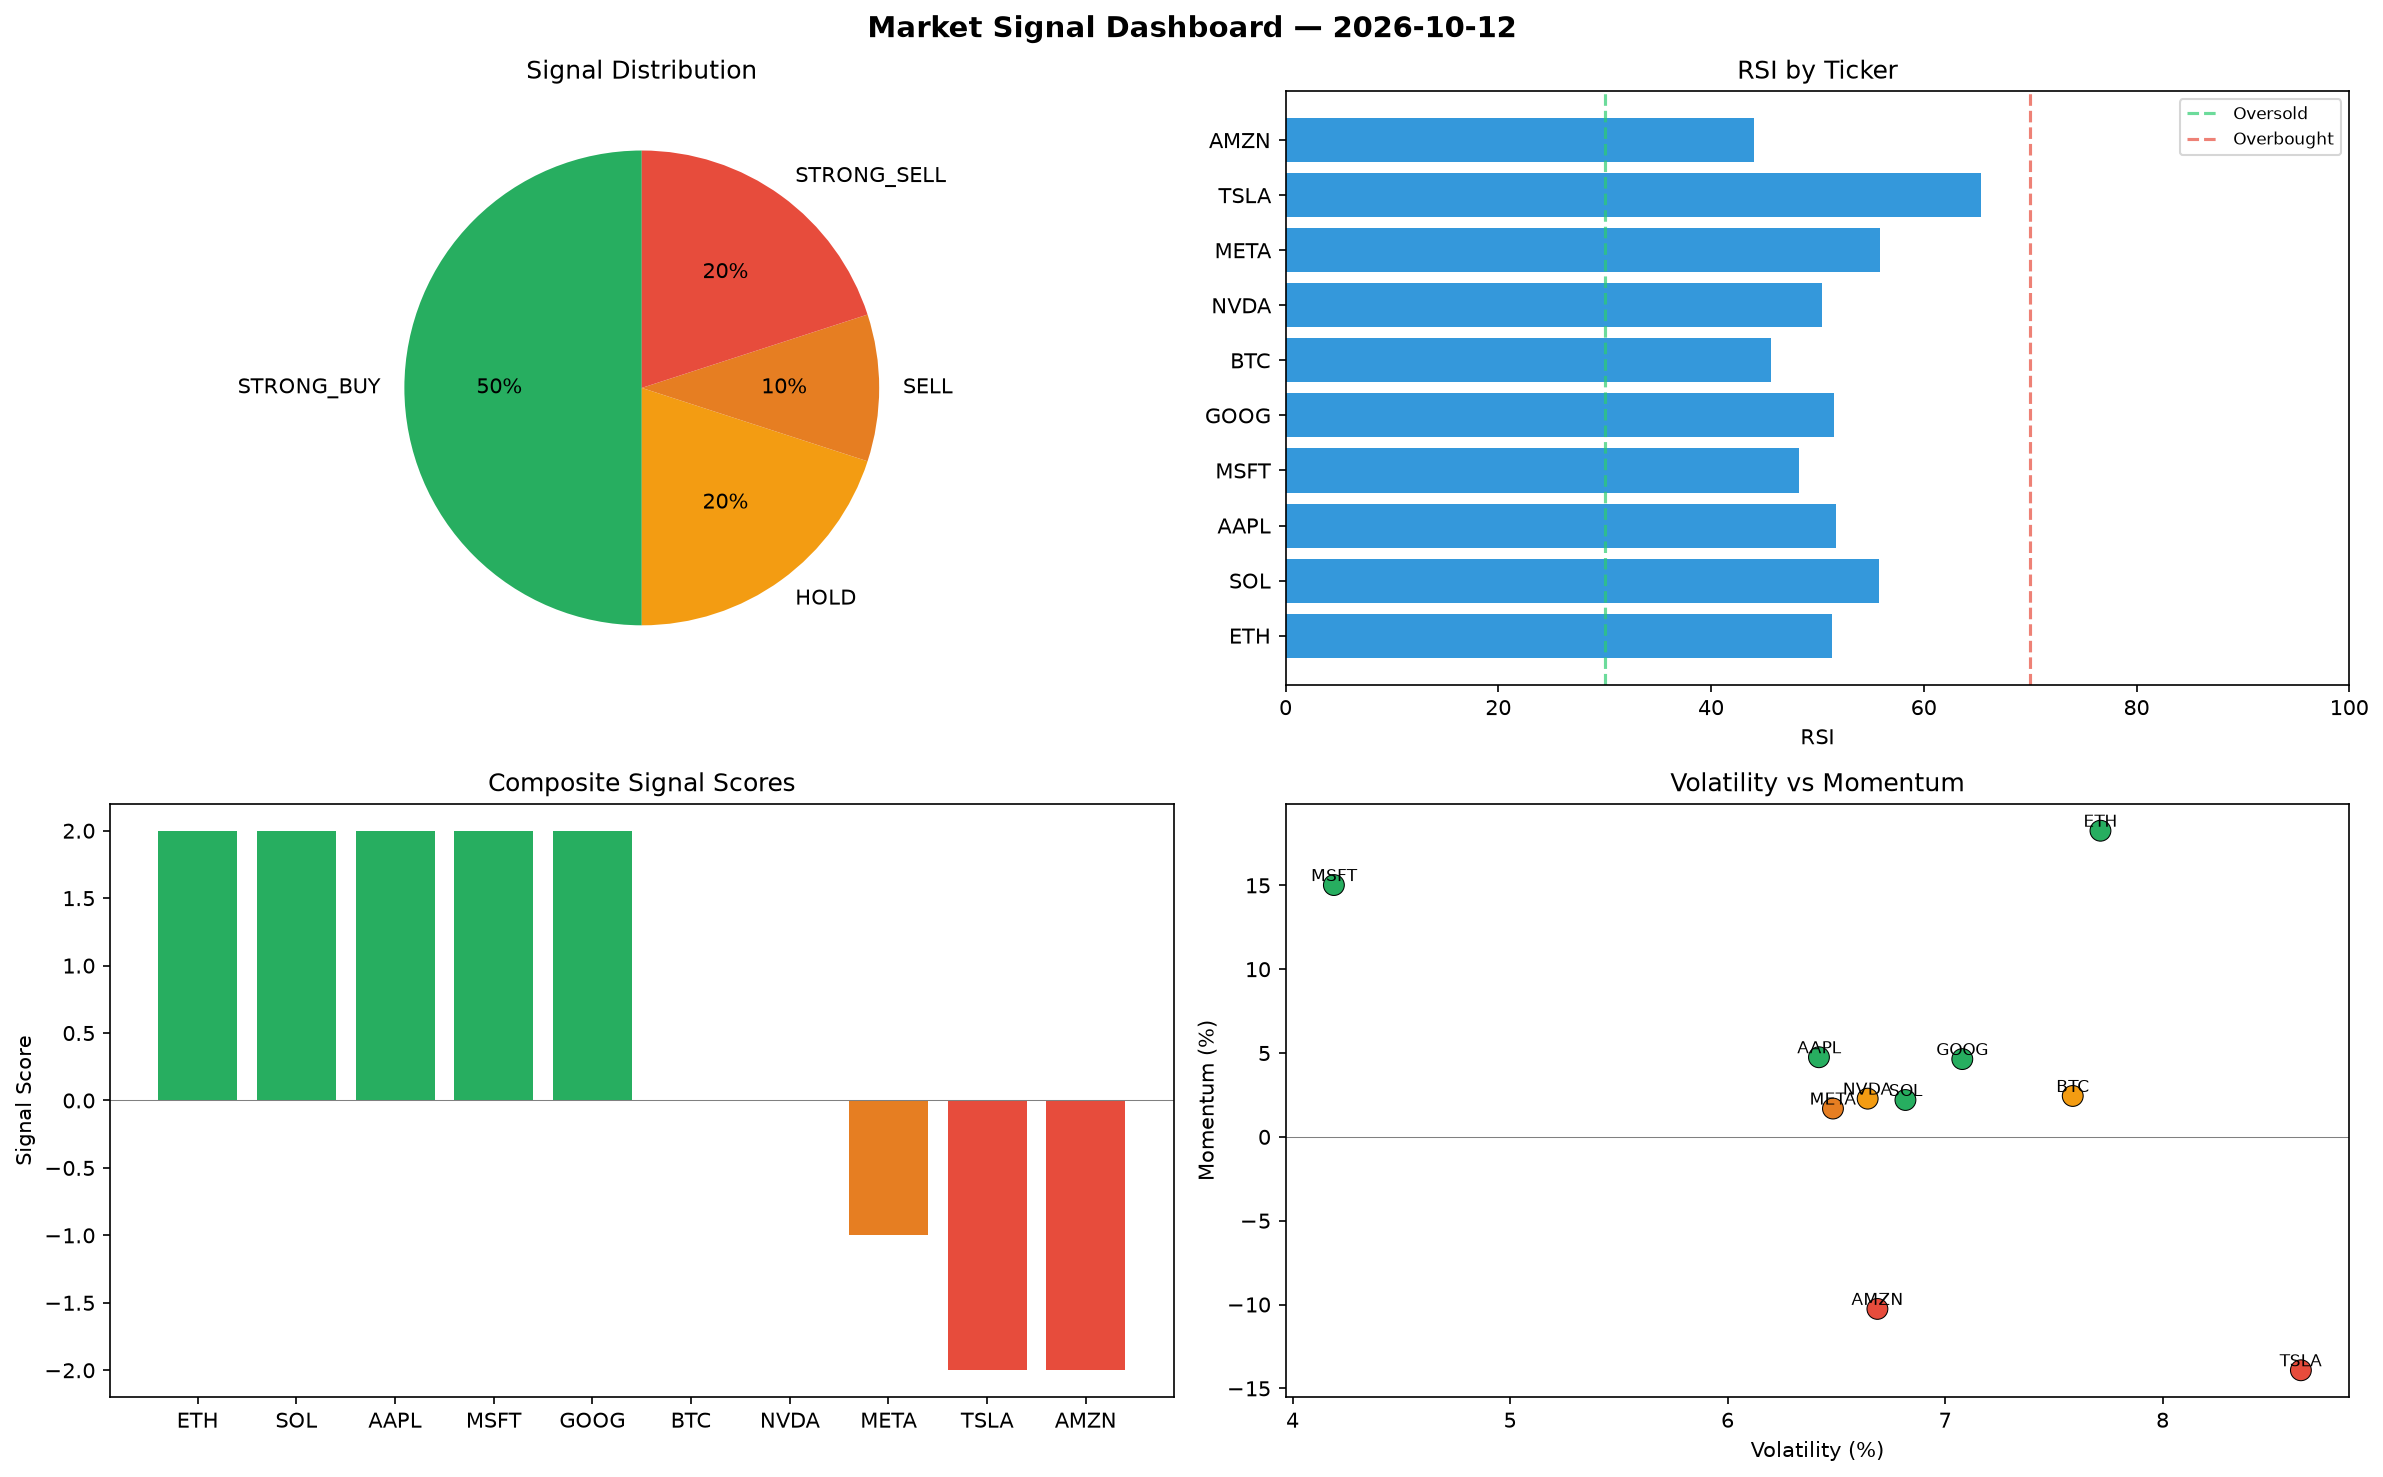
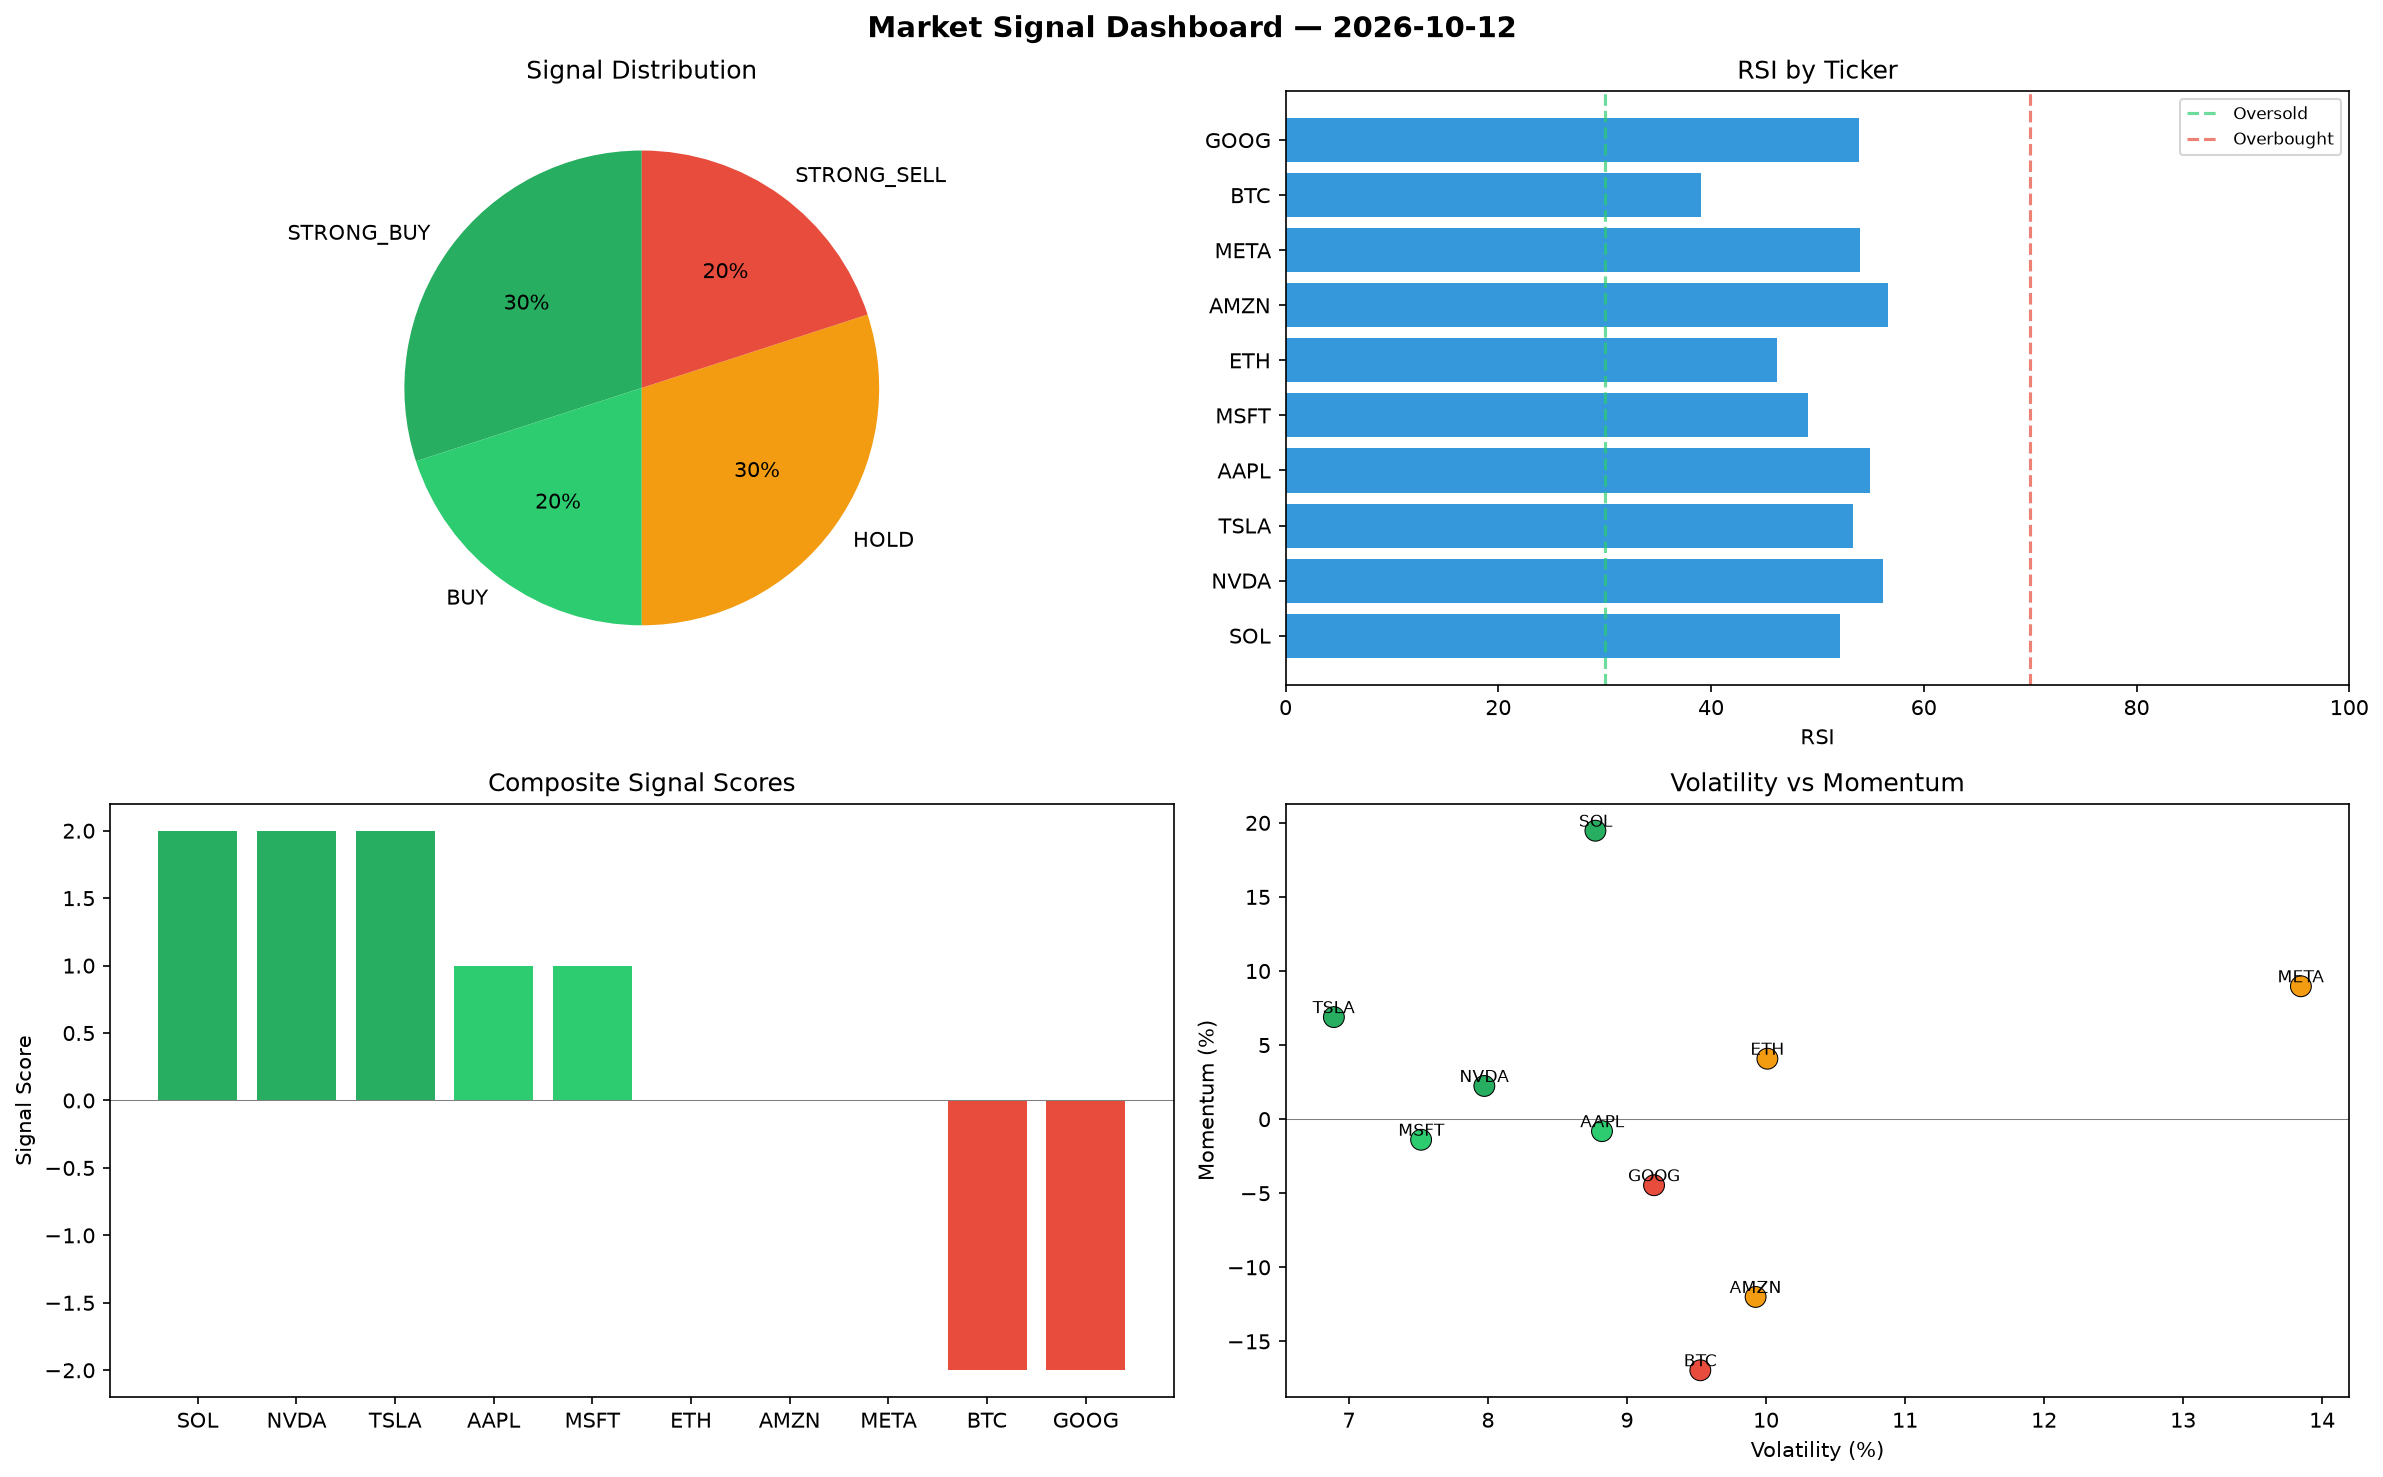
automated-bots: market signals 2026-10-12T18:05

diff --git a/logs/2026-10-12.md b/logs/2026-10-12.md
@@ -1,6 +1,6 @@
 # Market Signal Report — 2026-10-12
 
-**Run ID:** `3f71cfa7f8` | **Buy:** 5 | **Sell:** 3 | **Hold:** 2
+**Run ID:** `a02ee3ff59` | **Buy:** 5 | **Sell:** 2 | **Hold:** 3
 
 ![Dashboard](2026-10-12_dashboard.png)
 
@@ -8,28 +8,28 @@
 
 | Ticker | Price | Signal | Score | RSI | Momentum | Confidence |
 |--------|-------|--------|-------|-----|----------|------------|
-| ETH | $1604.06 | **STRONG_BUY** | 2 | 51.37 | 0.1826 | 0.5 |
-| SOL | $3126.44 | **STRONG_BUY** | 2 | 55.81 | 0.022 | 0.5 |
-| AAPL | $3765.13 | **STRONG_BUY** | 2 | 51.75 | 0.0475 | 0.5 |
-| MSFT | $3255.51 | **STRONG_BUY** | 2 | 48.29 | 0.1502 | 0.5 |
-| GOOG | $2394.95 | **STRONG_BUY** | 2 | 51.6 | 0.0464 | 0.5 |
-| BTC | $2005.3 | **HOLD** | 0 | 45.68 | 0.0244 | 0.0 |
-| NVDA | $1710.75 | **HOLD** | 0 | 50.47 | 0.0228 | 0.0 |
-| META | $1519.98 | **SELL** | -1 | 55.9 | 0.0169 | 0.25 |
-| TSLA | $1013.41 | **STRONG_SELL** | -2 | 65.38 | -0.1392 | 0.5 |
-| AMZN | $411.36 | **STRONG_SELL** | -2 | 44.05 | -0.1026 | 0.5 |
+| SOL | $4723.03 | **STRONG_BUY** | 2 | 52.09 | 0.1947 | 0.5 |
+| NVDA | $2186.26 | **STRONG_BUY** | 2 | 56.18 | 0.0224 | 0.5 |
+| TSLA | $2059.38 | **STRONG_BUY** | 2 | 53.37 | 0.0689 | 0.5 |
+| AAPL | $3693.47 | **BUY** | 1 | 54.99 | -0.0081 | 0.25 |
+| MSFT | $160.79 | **BUY** | 1 | 49.09 | -0.0139 | 0.25 |
+| ETH | $4632.73 | **HOLD** | 0 | 46.24 | 0.0408 | 0.0 |
+| AMZN | $2158.02 | **HOLD** | 0 | 56.67 | -0.12 | 0.0 |
+| META | $4060.78 | **HOLD** | 0 | 54.02 | 0.0897 | 0.0 |
+| BTC | $1516.03 | **STRONG_SELL** | -2 | 39.08 | -0.1695 | 0.5 |
+| GOOG | $670.91 | **STRONG_SELL** | -2 | 53.87 | -0.0446 | 0.5 |
 
 ## Delta vs Yesterday
 
 | Ticker | Today | Yesterday | Price Change | Signal Changed |
 |--------|-------|-----------|-------------|----------------|
-| ETH | STRONG_BUY | HOLD | 📉 -38.97% | ⚠ YES |
-| SOL | STRONG_BUY | HOLD | 📈 225.24% | ⚠ YES |
-| AAPL | STRONG_BUY | HOLD | 📈 30.99% | ⚠ YES |
-| MSFT | STRONG_BUY | STRONG_BUY | 📈 162.25% | — |
-| GOOG | STRONG_BUY | SELL | 📈 33.56% | ⚠ YES |
-| BTC | HOLD | STRONG_SELL | 📉 -29.87% | ⚠ YES |
-| NVDA | HOLD | HOLD | 📉 -56.37% | — |
-| META | SELL | STRONG_BUY | 📈 21.03% | ⚠ YES |
-| TSLA | STRONG_SELL | STRONG_BUY | 📉 -70.69% | ⚠ YES |
-| AMZN | STRONG_SELL | STRONG_SELL | 📉 -89.66% | — |
+| SOL | STRONG_BUY | HOLD | 📈 391.33% | ⚠ YES |
+| NVDA | STRONG_BUY | HOLD | 📉 -44.24% | ⚠ YES |
+| TSLA | STRONG_BUY | STRONG_BUY | 📉 -40.43% | — |
+| AAPL | BUY | HOLD | 📈 28.5% | ⚠ YES |
+| MSFT | BUY | STRONG_BUY | 📉 -87.05% | ⚠ YES |
+| ETH | HOLD | HOLD | 📈 76.25% | — |
+| AMZN | HOLD | STRONG_SELL | 📉 -45.73% | ⚠ YES |
+| META | HOLD | STRONG_BUY | 📈 223.33% | ⚠ YES |
+| BTC | STRONG_SELL | STRONG_SELL | 📉 -46.98% | — |
+| GOOG | STRONG_SELL | SELL | 📉 -62.59% | ⚠ YES |
